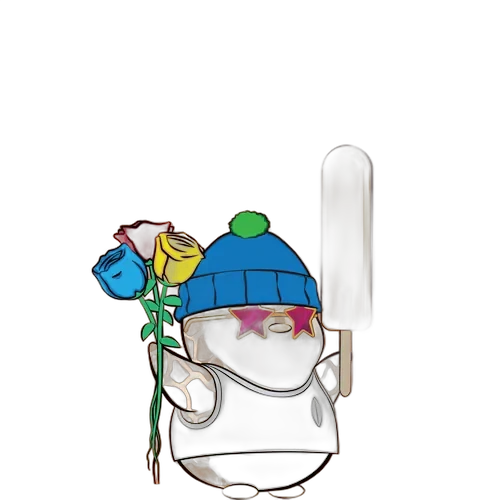
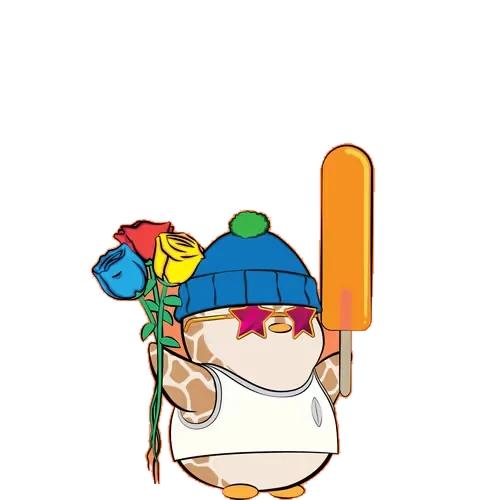
v1.0.8：按素材类型分治抠图，胖企鹅改用漫水填充
模型（isnet-general-use）对纯色背景的扁平矢量画会给出半透明毛边，
主体发灰。改为：
- 纯色背景 → 边框取样 + 四连通漫水填充 + 1px 羽化（像素级边缘）
- 渐变/照片 → rembg 模型兜底（lilpudgys-08 走此路径）
- 已有透明通道 → 保留

验证：90/90 张透明比例落在 0.40-0.86，无异常；渲染对比图确认主体实心、边缘干净。
回滚：git revert 本提交。

diff --git a/README.md b/README.md
@@ -110,3 +110,13 @@ UPDATEIMAGE / 重建 desktop.ini / ASSOCCHANGED）都无法稳定即时重绘—
 90 张 NFT 皮肤图已用 **rembg（isnet-general-use 模型）离线抠图**，全部转成带透明通道的 WebP：
 主体保留原样，**背景由左侧色相滑杆控制**（和内置预设一致）。素材已处理完随皮肤包发布，
 应用端零额外依赖、体积不变。
+
+### 抠图方案（v1.0.8）
+
+按素材类型分别处理，而不是一个模型打天下：
+
+- **纯色背景的扁平插画（Lil Pudgys）**：从边框取背景色做四连通漫水填充 + 1px 羽化，像素级边缘；
+- **渐变背景 / 照片类（Muse）**：`rembg` + `isnet-general-use` 模型（MIT 权重）；
+- 已自带透明通道的（Axie）保留原样。
+
+全部离线处理，成品是带透明通道的 WebP，应用端无额外依赖。
